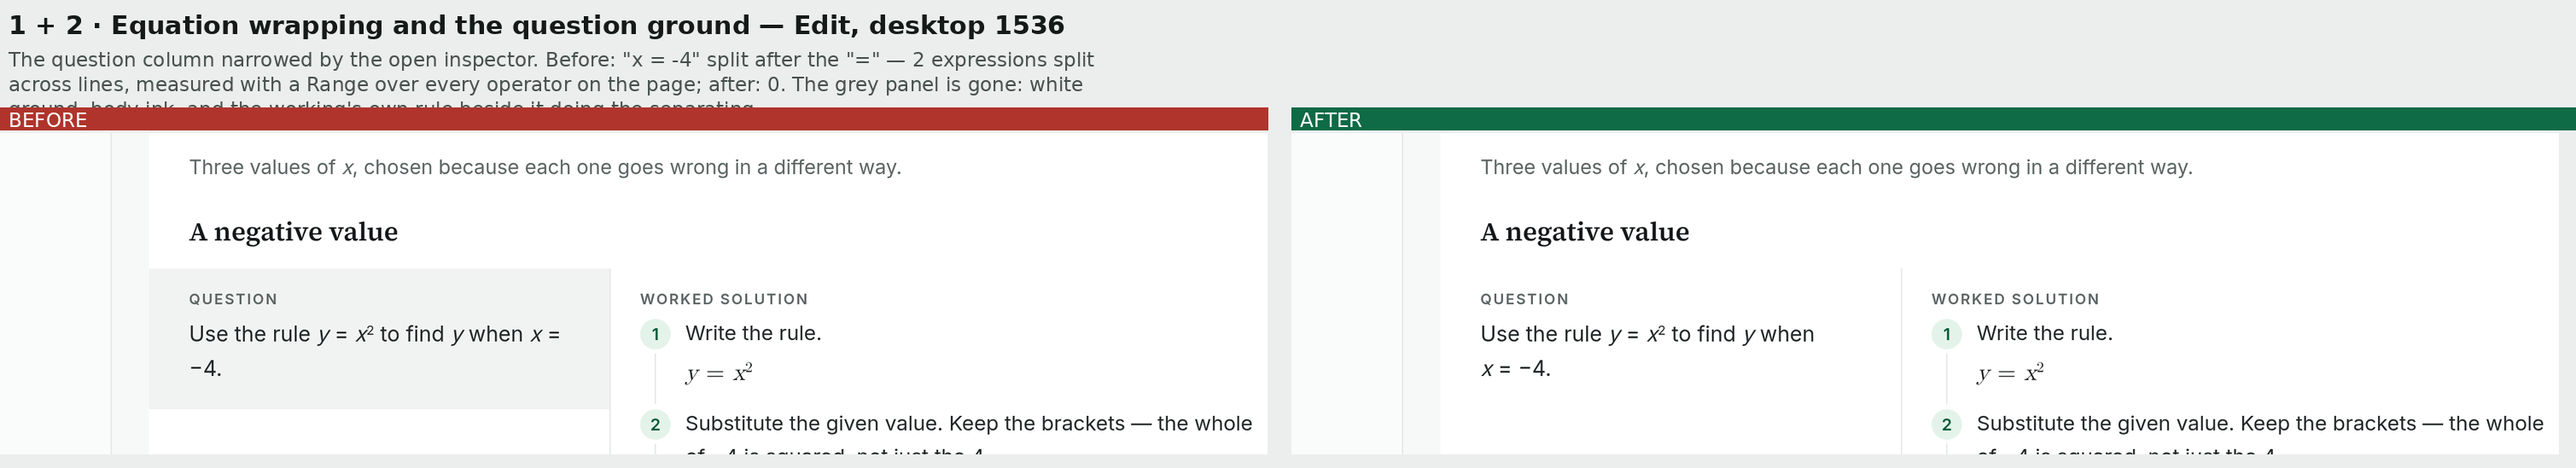
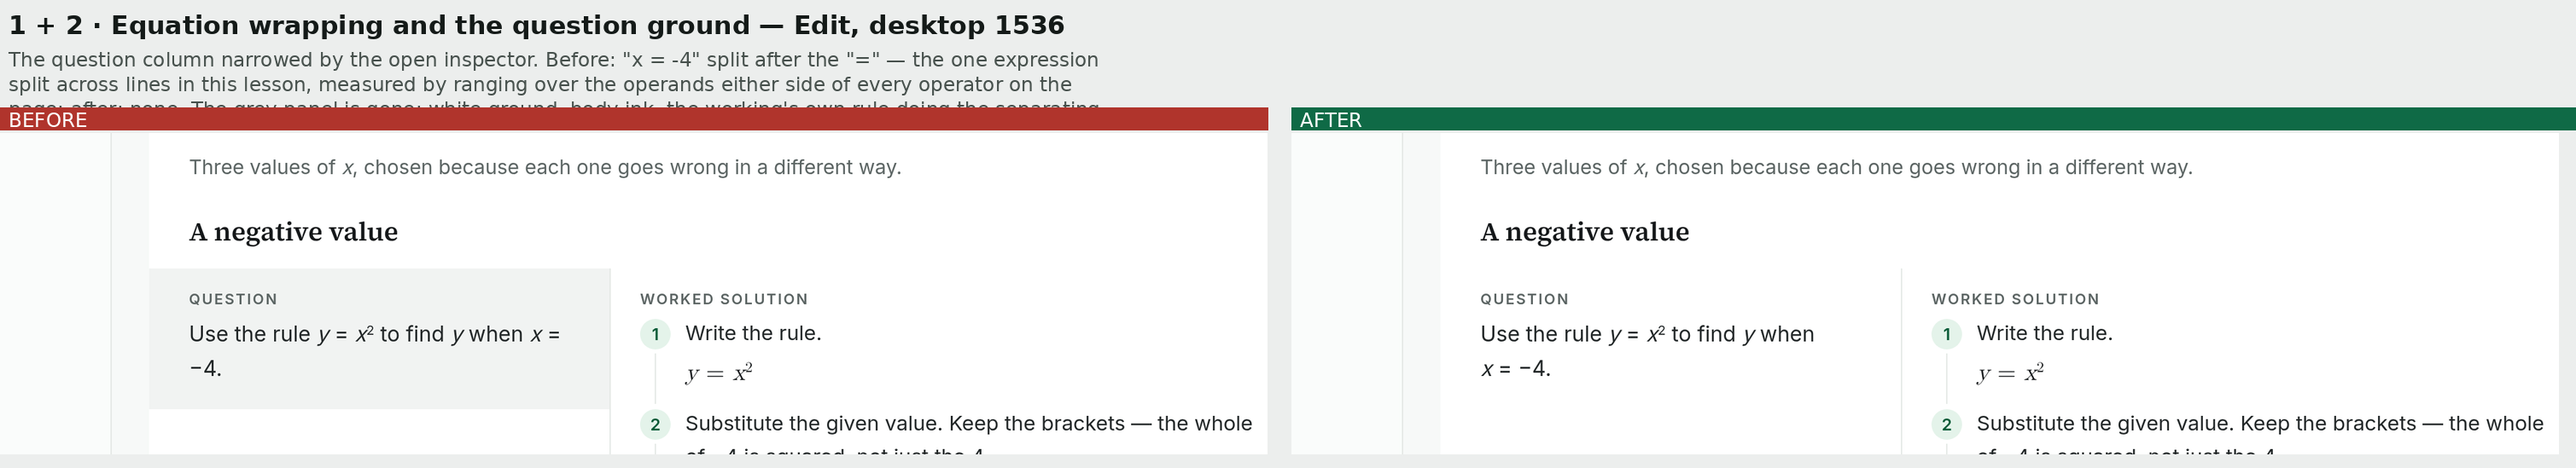
gate: fix the split-expression measure, which CI caught failing on its own fonts
`mathematics-pages` went red on 5c8075e: NO EXPRESSION IS SPLIT reported one
split at 1200px on the runner, and none here. The page was right and the
measure was wrong, twice over.

It read one text node at a time, so it could not see across the italic in
`<i>x</i> = −4` — and it flagged a WORD break in front of a signed number,
"the whole of −4 is squared", as a split expression. Where that lands depends
on where the fonts wrap, which is why it passed on this machine and failed on
the runner. It now reads the host's text flattened across element boundaries
and counts an operator only where a value stands either side of it, skipping
spaces and one leading sign.

Made to see across elements it then flagged every built-up fraction, whose
numerator and denominator sit at different tops on one line: `_y_ = 4/9` and
`(−2/3)^2` all came back as splits. Lines are now clustered by vertical
overlap, the way this file already reads the lines of a wrapped answer. And a
break at a CHUNK BOUNDARY is exempt — that is the deliberate break a long run
is given on purpose, not a defect.

The stronger measure re-counts the original defect as 1, not 2: the same
single break in the same question, no longer counted once per text node. The
before captures are regenerated and say so, and the failure details now name
the offending expression instead of a fixed sentence.

verify-notes-examples 133/133, every control still firing on the unfixed
[…]

Changed region(s): [[0.0, 0.0929, 0.4361, 0.2477]]

diff --git a/CHANGELOG.md b/CHANGELOG.md
@@ -17,9 +17,9 @@ All notable changes to **Lesson Studio** are recorded here. Format follows
     has just built — atoms (a variable, a number, a bracket, a built-up fraction, each carrying whatever
     superscript follows it) joined by relations and operators — and holding each one on one line
     (`.mx-nb`). The prose around them wraps exactly as before. `_x_ = −4` in a question band narrowed by the
-    open inspector used to break after the `=`, stranding the value on the next line; measured with a Range
-    over the characters either side of every operator on the page, that was 2 expressions split at the
-    desktop surface in Edit and is now 0. A run too long for its column is not clipped and does not
+    open inspector used to break after the `=`, stranding the value on the next line; measured by ranging
+    over the OPERANDS either side of every operator on the page, that was the one expression split across
+    lines anywhere in this lesson, at the desktop surface in Edit, and is now none. A run too long for its column is not clipped and does not
     overflow sideways: above 30 visible characters it is offered break points AFTER relations and
     operators only, never inside a term and never inside brackets, so the operator stays on the line it
     closes and the next line begins with a whole term. It reads the rendered markup rather than the source,
@@ -55,6 +55,16 @@ All notable changes to **Lesson Studio** are recorded here. Format follows
   question again and the no-fill check sees the fill; take the stacked rule away and nothing separates the
   two regions. One of those controls was found passing vacuously — its predicate reached for a field the
   object did not have, so it answered "false" for both sides — and was fixed before it was trusted.
+
+  **The split measure itself was wrong twice, and CI found the first one.** It read one text node at a
+  time, so it could not see across the italic in `<i>x</i> = −4`, and it flagged a WORD break in front of a
+  signed number — "the whole of −4 is squared" — as a split expression. That depends on where the fonts
+  happen to wrap, so it passed here and failed on the runner. It now reads the host's text flattened across
+  element boundaries and counts an operator only where a value stands either side of it, skipping spaces
+  and one leading sign. Made to see across elements it then flagged every built-up FRACTION, whose
+  numerator and denominator sit at different tops on one line; lines are now clustered by vertical overlap,
+  the way this file already reads the lines of a wrapped answer. The stronger measure changes the reported
+  count of the original defect from 2 to 1 — the same single break, no longer counted twice.
 
   `scripts/shots-presentation.mjs` (new) is the before/after harness: the lesson served as a REAL DOCUMENT
   with `#lesson-data` replaced, Study and Edit, 1536 and 834, and beside every capture the numbers for all
